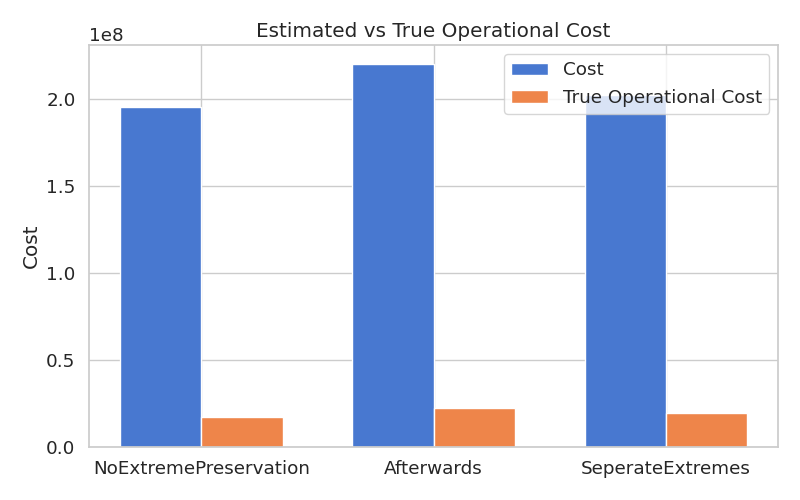
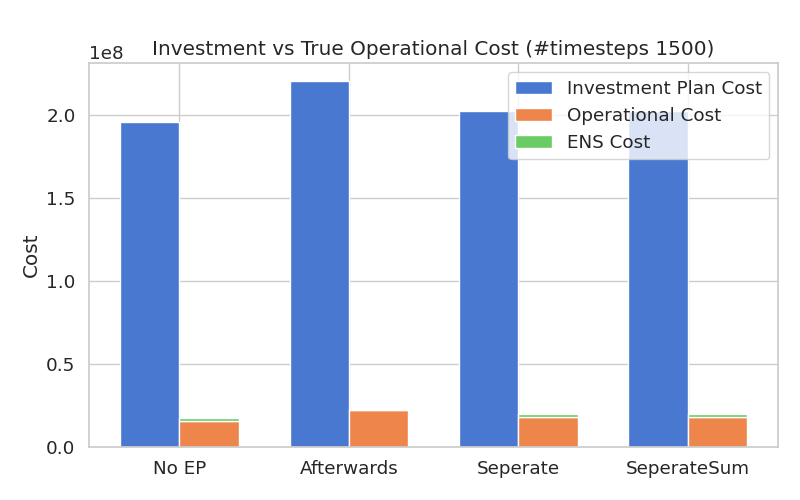
build cli and refactor run.sh

diff --git a/plotting/plot_regret.py b/plotting/plot_regret.py
@@ -37,11 +37,36 @@ plt.close()
 # -----------------------------
 # Plot 2: Cost vs True Operational Cost
 # -----------------------------
+# -----------------------------
+# Plot 2: Cost vs True Operational Cost (with ENS highlighted)
+# -----------------------------
 plt.figure(figsize=(8,5))
 width = 0.35
 x = range(len(df))
+
+# Calculate ENS cost and operational cost without ENS
+df["ens_cost"] = df["energy_not_served"] * 1000
+df["operational_cost_without_ens"] = df["true_operational_cost"] - df["ens_cost"]
+
+# Investment cost bar
 plt.bar(x, df['cost'], width=width, label='Investment Plan Cost')
-plt.bar([i+width for i in x], df['true_operational_cost'], width=width, label='True Operational Cost')
+
+# True operational cost split into two parts
+plt.bar(
+    [i+width for i in x],
+    df["operational_cost_without_ens"],
+    width=width,
+    label="Operational Cost"
+)
+
+plt.bar(
+    [i+width for i in x],
+    df["ens_cost"],
+    width=width,
+    bottom=df["operational_cost_without_ens"],
+    label="ENS Cost"
+)
+
 plt.xticks([i + width/2 for i in x], df['method'])
 plt.ylabel("Cost")
 plt.title("Investment vs True Operational Cost (#timesteps 1500)")
